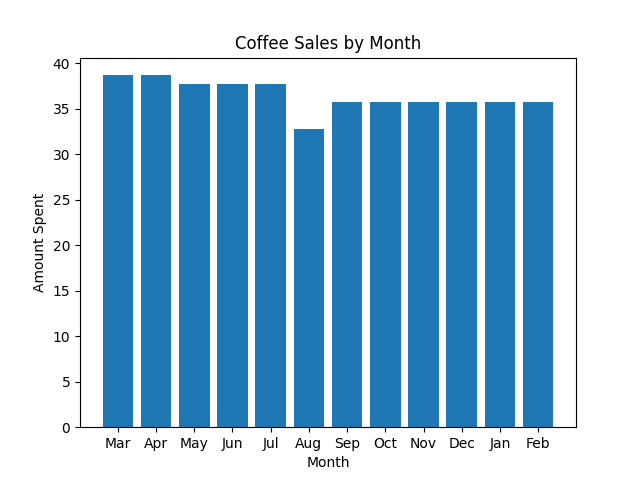
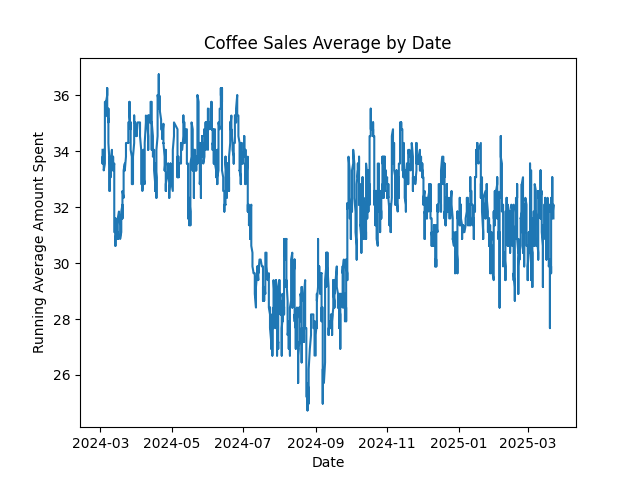
Lab 1: update

diff --git a/s31890/01/syntax_issues.py b/s31890/01/syntax_issues.py
@@ -1,0 +1,29 @@
+import pandas as pd
+import argparse
+import matplotlib.pyplot as plt
+
+parser = argparse.ArgumentParser(
+    prog="histogram_generator", description="Process CSV file and generate histogram"
+)
+
+parser.add_argument("file_path", help="Path to the CSV file")
+parser.add_argument("column_name", help="Name of the column to generate histogram for")
+parser.add_argument("min_value", type=int, help="Minimum value for the range")
+parser.add_argument("max_value", type=int, help="Maximum value for the range")
+
+args = parser.parse_args()
+
+file_path = args.file_path
+nazwa_kolumny = args.column_name
+min_wartosc = args.min_value
+max_wartosc = args.max_value
+
+data = pd.read_csv(file_path)
+df = pd.DataFrame(data)
+
+rows_of_interest = df.iloc[min_wartosc:max_wartosc]
+col_of_interest = rows_of_interest[nazwa_kolumny]
+
+plt.hist(col_of_interest)
+plt.title(f"Histogram {nazwa_kolumny}")
+plt.savefig("histogram.png")

diff --git a/s31890/01/plotting.py b/s31890/01/plotting.py
@@ -13,8 +13,10 @@ df = pd.DataFrame(data)
 
 import matplotlib.pyplot as plt
 
-plt.bar(df["Month_name"], df["money"])
-plt.title("Coffee Sales by Month")
-plt.xlabel("Month")
-plt.ylabel("Amount Spent")
+money_average = df["money"].rolling(window=20).mean()
+
+plt.plot(pd.to_datetime(df["Date"]), money_average)
+plt.title("Coffee Sales Average by Date")
+plt.xlabel("Date")
+plt.ylabel("Running Average Amount Spent")
 plt.savefig("coffee_sales_plot.png")
